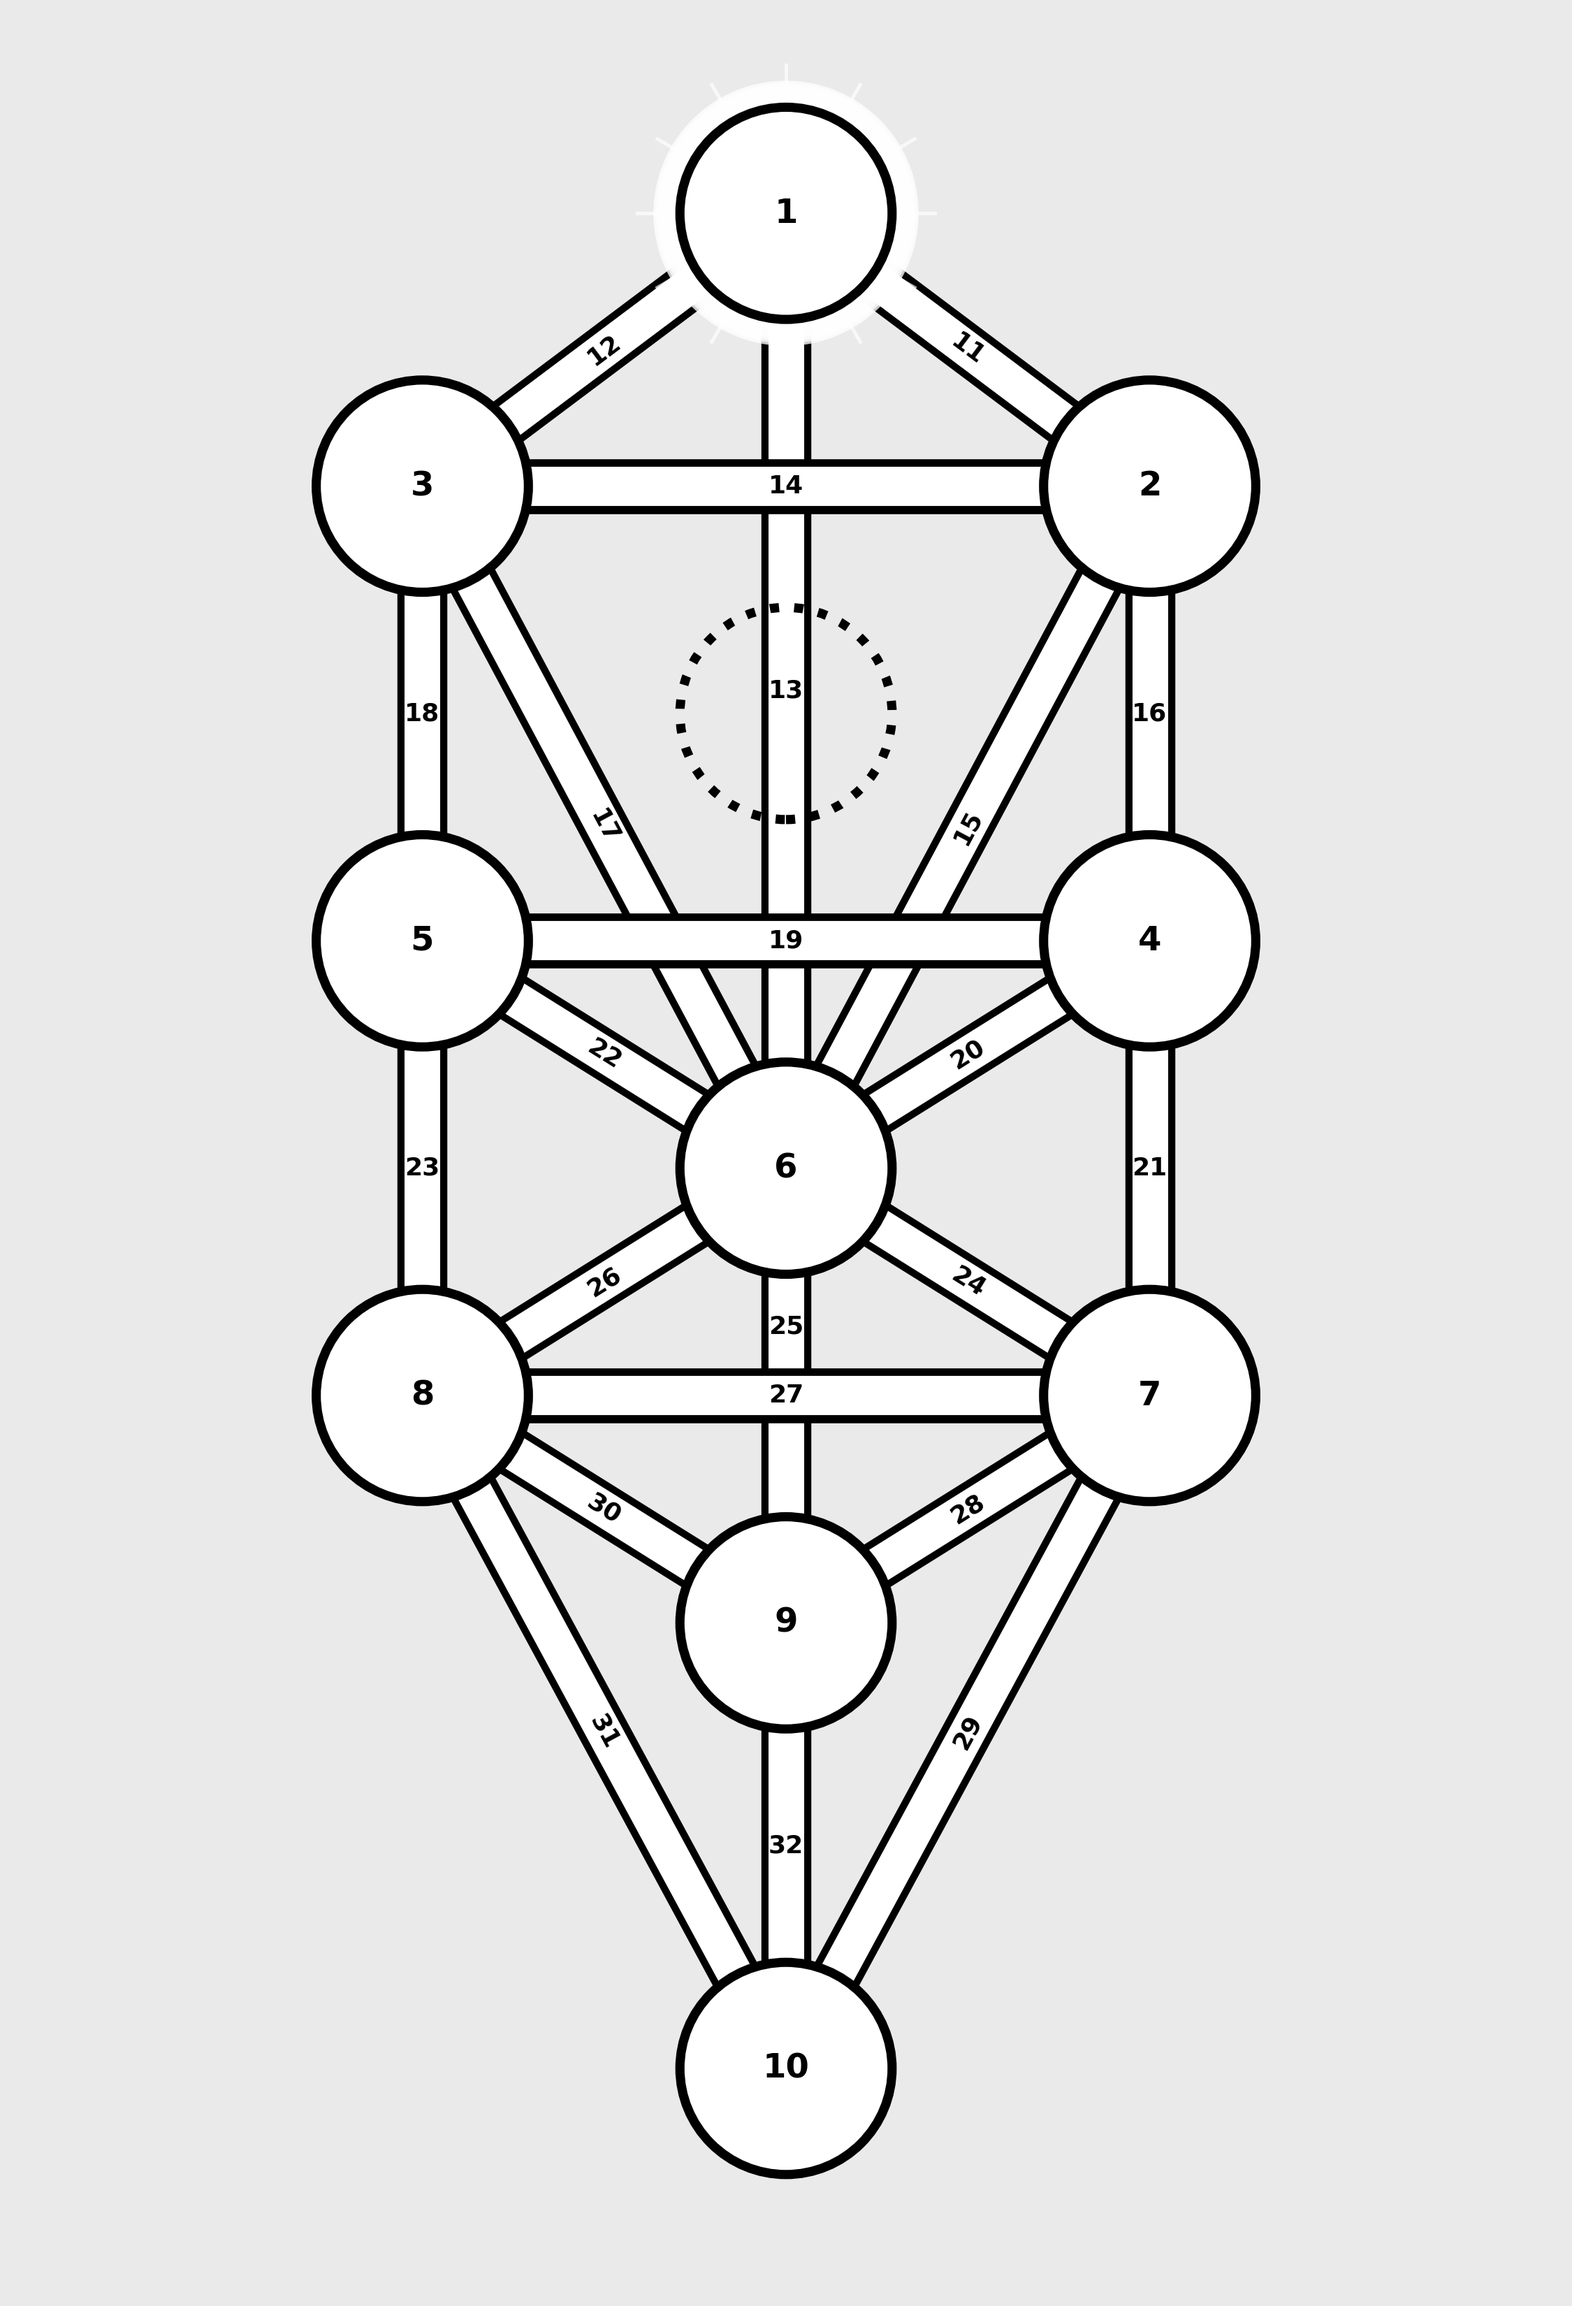
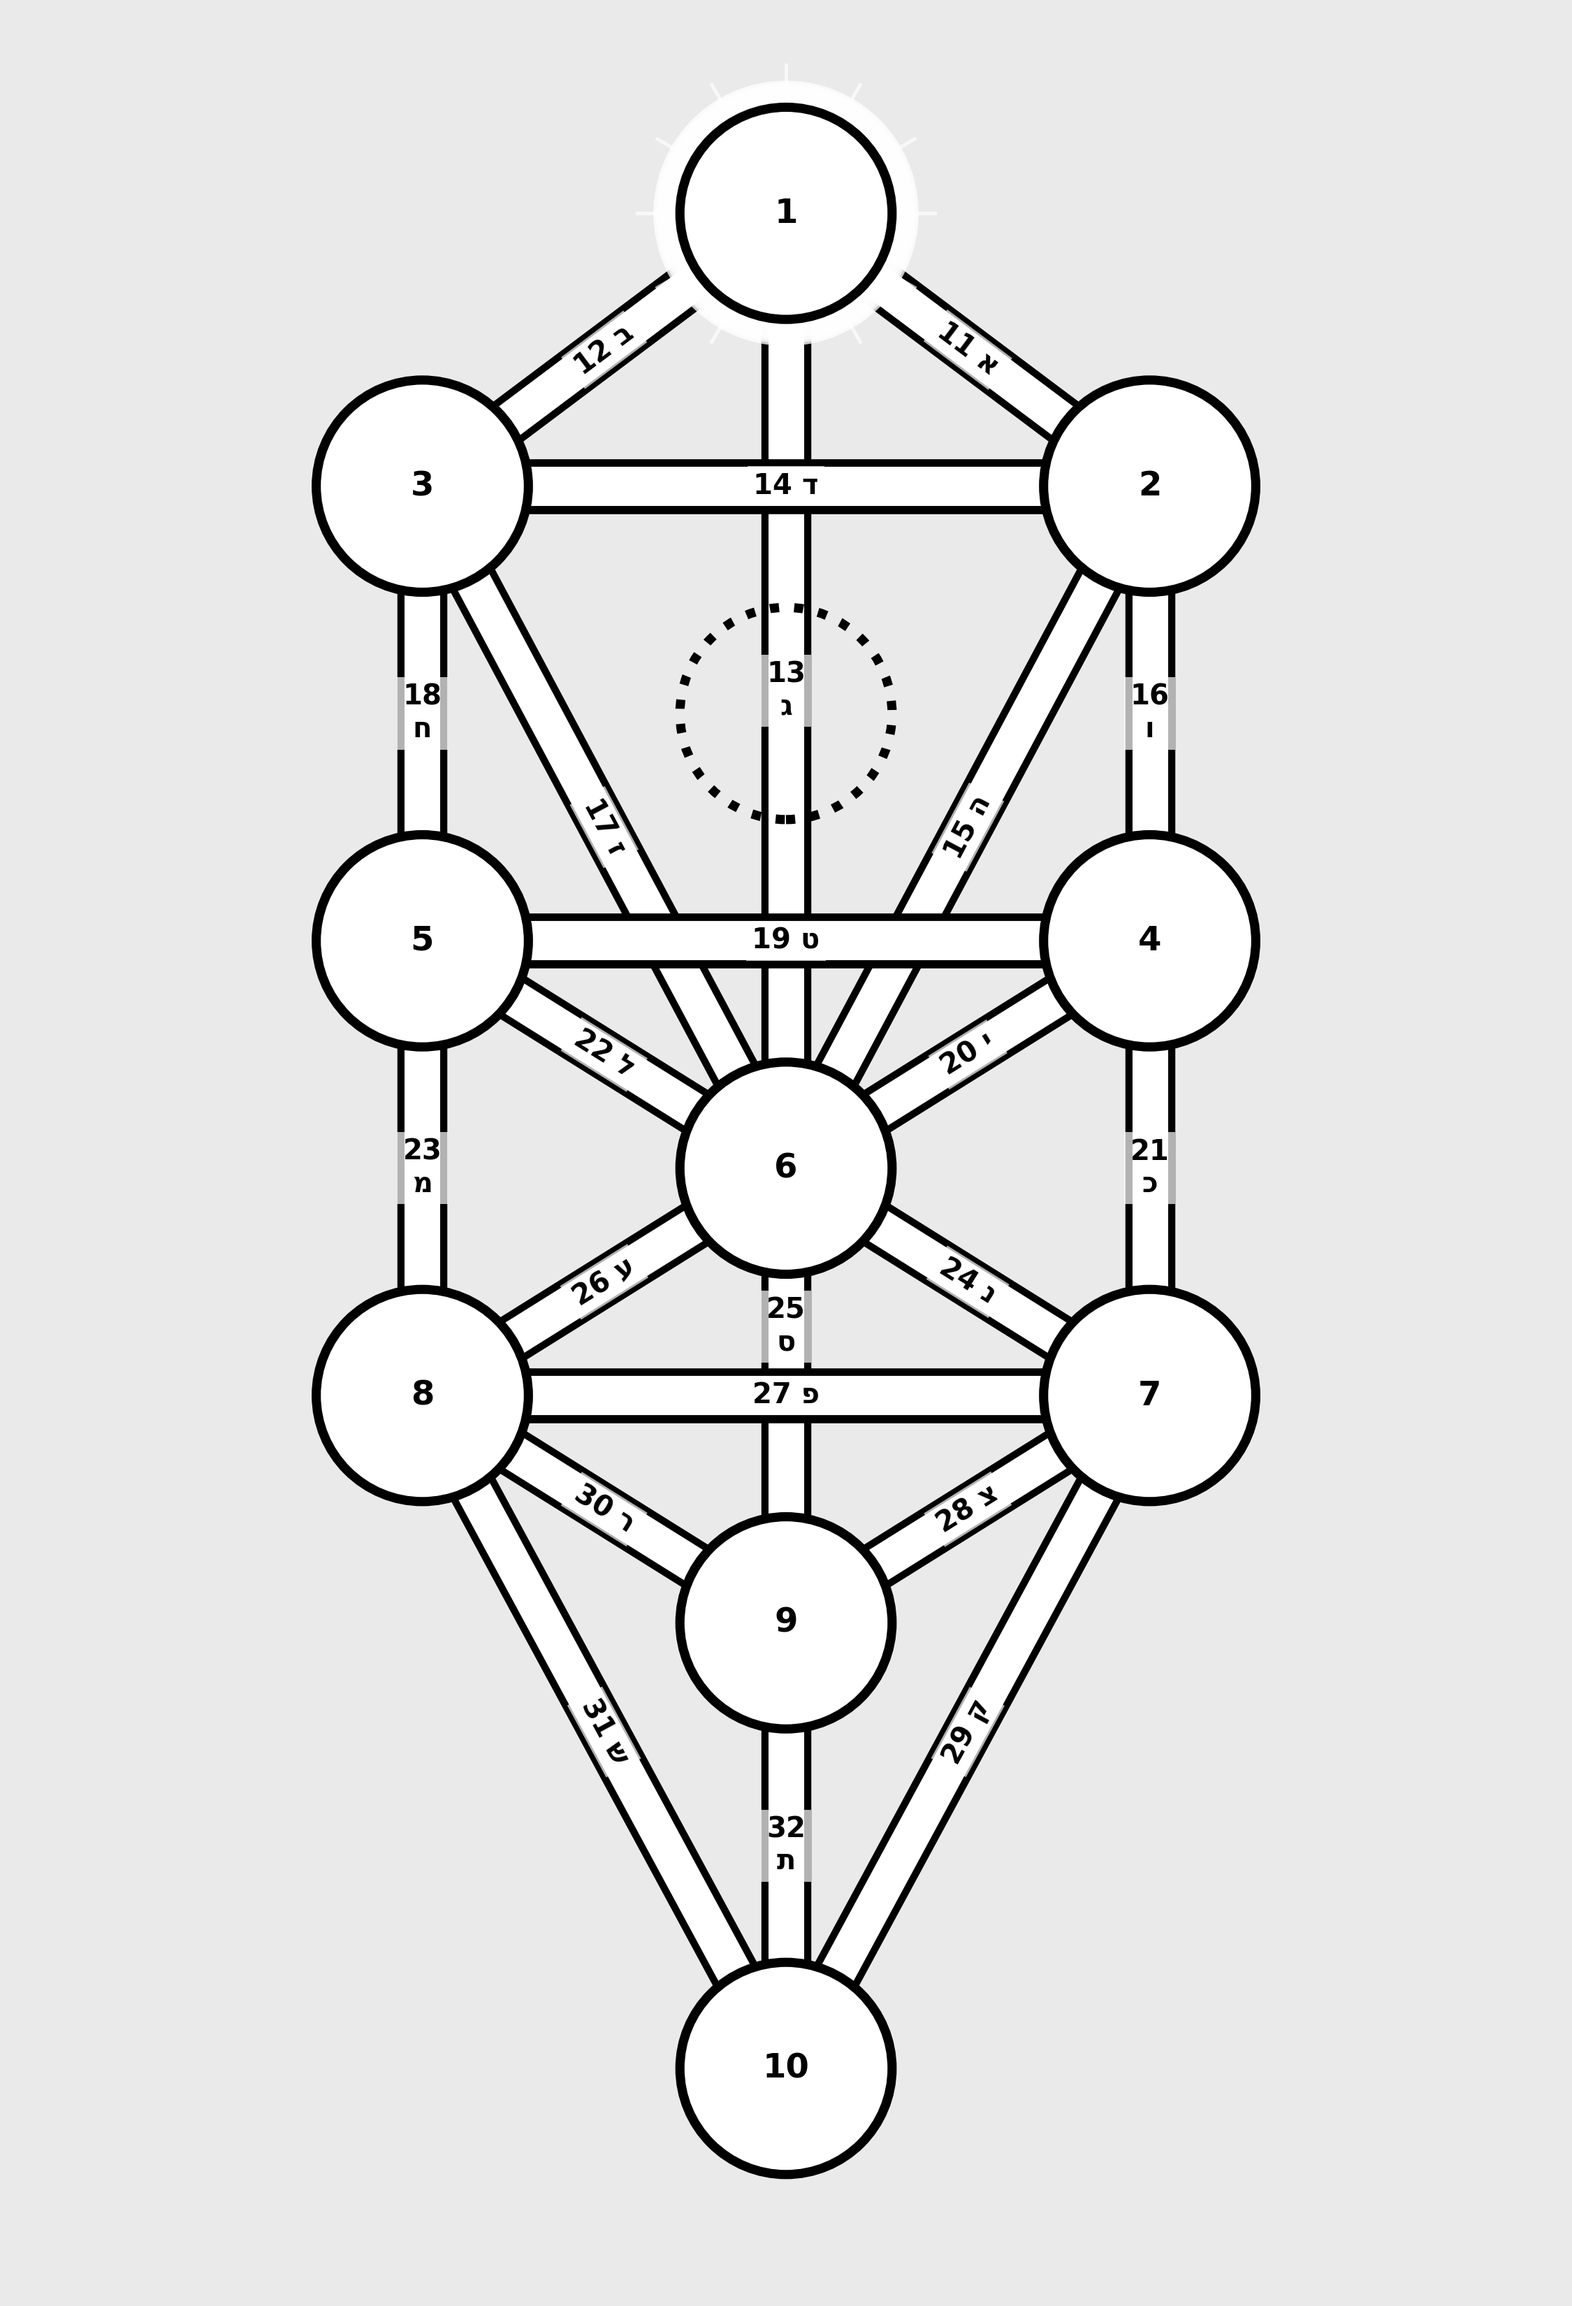
feat: add astrological and elemental symbols to Tree of Life paths

diff --git a/new_tree.py b/new_tree.py
@@ -252,6 +252,32 @@ def draw_tree_of_life(output_filename: str = None) -> None:
     # Create a list of numbers from 11 to 32
     path_numbers = list(range(11, 33))
 
+    # Add astrological and elemental symbols that correspond to each path (in order of paths_from_image)
+    path_symbols = [
+        '🜁',  # Path 11: Air - Kether to Chokmah
+        '☿',  # Path 12: Mercury - Kether to Binah
+        '☽',  # Path 13: Moon - Kether to Tiphereth
+        '♀',  # Path 14: Venus - Chokmah to Binah
+        '♒',  # Path 15: Aquarius - Chokmah to Tiphereth
+        '♉',  # Path 16: Taurus - Chokmah to Chesed
+        '♊',  # Path 17: Gemini - Binah to Tiphereth
+        '♋',  # Path 18: Cancer - Binah to Geburah
+        '♌',  # Path 19: Leo - Chesed to Geburah
+        '♍',  # Path 20: Virgo - Chesed to Tiphereth
+        '♃',  # Path 21: Jupiter - Chesed to Netzach
+        '♎',  # Path 22: Libra - Geburah to Tiphereth
+        '🜄',  # Path 23: Water - Geburah to Hod
+        '♏',  # Path 24: Scorpio - Tiphereth to Netzach
+        '♐',  # Path 25: Sagittarius - Tiphereth to Yesod
+        '♑',  # Path 26: Capricorn - Tiphereth to Hod
+        '♂',  # Path 27: Mars - Netzach to Hod
+        '♈',  # Path 28: Aries - Netzach to Yesod
+        '♓',  # Path 29: Pisces - Netzach to Malkuth
+        '☉',  # Path 30: Sun - Hod to Yesod
+        '🜂',  # Path 31: Fire/Spirit - Hod to Malkuth
+        '♄'   # Path 32: Saturn/Earth - Yesod to Malkuth
+    ]
+
     # Define paths that need special orientation fixes (paths appearing upside down)
     # The indices are 0-based in the paths_from_image list
     paths_needing_orientation_fix = [
@@ -309,11 +335,19 @@ def draw_tree_of_life(output_filename: str = None) -> None:
         else:
             rotation = angle_deg  # Rotate text to match path angle
 
-        # Draw the path number with proper orientation
+        # Create combined label with path number and symbol
+        # For vertical paths, stack the number and symbol
+        # For horizontal and diagonal paths, put the symbol to the right of the number
+        if is_vertical:
+            path_label = f"{path_numbers[idx]}\n{path_symbols[idx]}"
+        else:
+            path_label = f"{path_numbers[idx]} {path_symbols[idx]}"
+
+        # Draw the path number and symbol with proper orientation
         ax.text(mid_x, mid_y + special_offset_y,
-                str(path_numbers[idx]),
-                # Slightly smaller than Sephiroth numbers
-                fontsize=9 * sphere_scale_factor * 0.55,
+                path_label,
+                # Increased font size for better readability
+                fontsize=10 * sphere_scale_factor * 0.55,
                 fontweight='bold',
                 ha='center',
                 va='center',
@@ -321,7 +355,8 @@ def draw_tree_of_life(output_filename: str = None) -> None:
                 # Set the rotation to match the path direction
                 rotation=rotation,
                 rotation_mode='anchor',  # Rotate around the anchor point
-                # No box around the path numbers
+                bbox=dict(facecolor='white', alpha=0.7,
+                          edgecolor='none', pad=2),  # Add white background
                 zorder=zorder_path_numbers)  # Make text appear above paths
 
     # 5. Draw the Sephirot (Circles)
